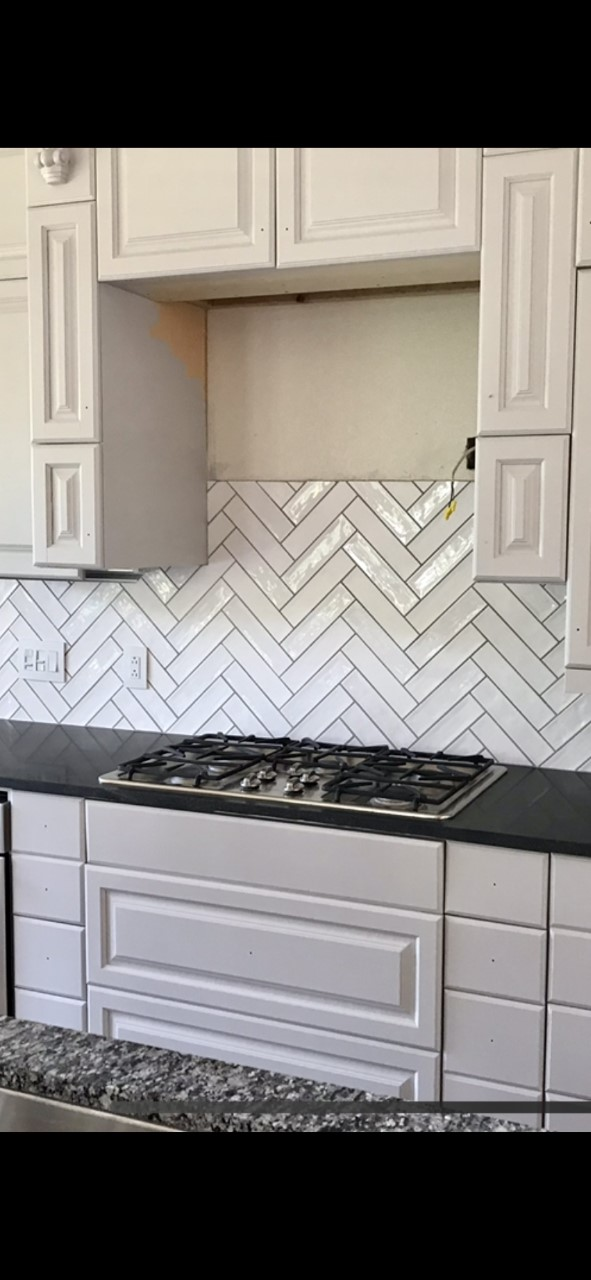
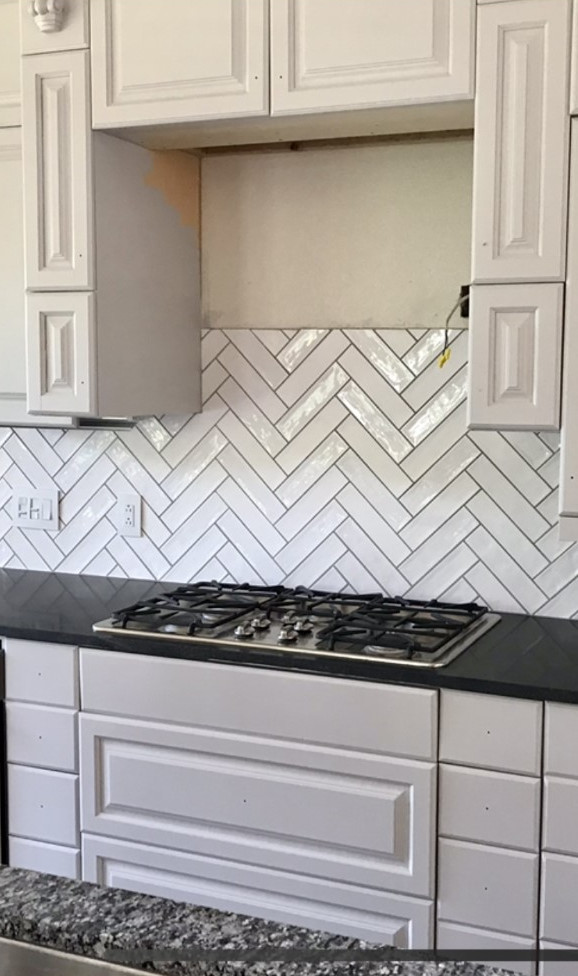
Added before and after section to main page

diff --git a/styles.css b/styles.css
@@ -22,7 +22,9 @@ a:hover {
     text-decoration-line: underline;
 }
 
-.contact-main-body, .mid-header, .testimonials-links, a:link, a:hover, a:visited, .header, .logo, .left-header, .left-main-body, .right-header, .main-body, .kitchen-img, .main-body-text, .footer, .testimonials-header, .testimonials-text, .testimonials-body {
+.contact-main-body, .mid-header, .testimonials-links, a:link, a:hover, a:visited, .header, .logo, .left-header, .left-main-body, .right-header, 
+.main-body, .kitchen7, .main-body-text, .footer, .testimonials-header, .testimonials-text, .testimonials-body, .BeforeAndAfterBody, .FirstBefore 
+.kitchen8before2, .FirstAfter, .kitchen9 {
     padding: 0px;
     margin: 0px;
     border: 0px;
@@ -74,9 +76,7 @@ a:hover {
     width: 100%;
     display: flex;
     align-items: flex-start;
-    padding-bottom: 50px;
-    padding-top: 50px;
-    padding-left: 50px;
+    padding: 20px;
     background-color: rgb(37, 37, 37);
     gap: 100px;  
     min-width: 850px;
@@ -94,7 +94,7 @@ a:hover {
     font-size: xx-large;
 }
 
-.kitchen-img {
+.kitchen7 {
     display:flex;
     height: auto;
     width: 100%;
@@ -117,6 +117,13 @@ a:hover {
     height: auto;
     gap: 70px;
     min-width: 300px;
+}
+
+.BeforeAndAfterBody {
+    display: flex;
+    flex-direction: column;
+    justify-content: center;
+    align-items: center;
 }
 
 

diff --git a/index.html b/index.html
@@ -22,7 +22,7 @@
         </div>
         <div class="main-body">
             <div class= "left-main-body">
-                <img class= "kitchen-img" src="./kitchen.jpg" alt="remodled kitchen">
+                <img class= "kitchen7" src="./img/kitchen7.jpg" alt="remodled kitchen">
             </div>
             <div class="main-body-text">
                 <div>
@@ -78,6 +78,18 @@
                         <h3>Logo and link to another.</h3>
                     </div>
                 </div>
+            </div>
+
+        </div>
+        <div class ="BeforeAndAfterBody">
+            <div class ="FirstBefore">
+                <h1>Before</h1>
+                <img class ="kitchen8before2" src="./img/kitchen8before2.jpg" alt="kitchen before remodeling">
+            </div>
+            <div class ="FirstAfter">
+                <h1>After</h1>
+                <img class = "kitchen9" src="./img/kitchen9.PNG" alt="kitchen after remodeling">
+
             </div>
 
         </div>
